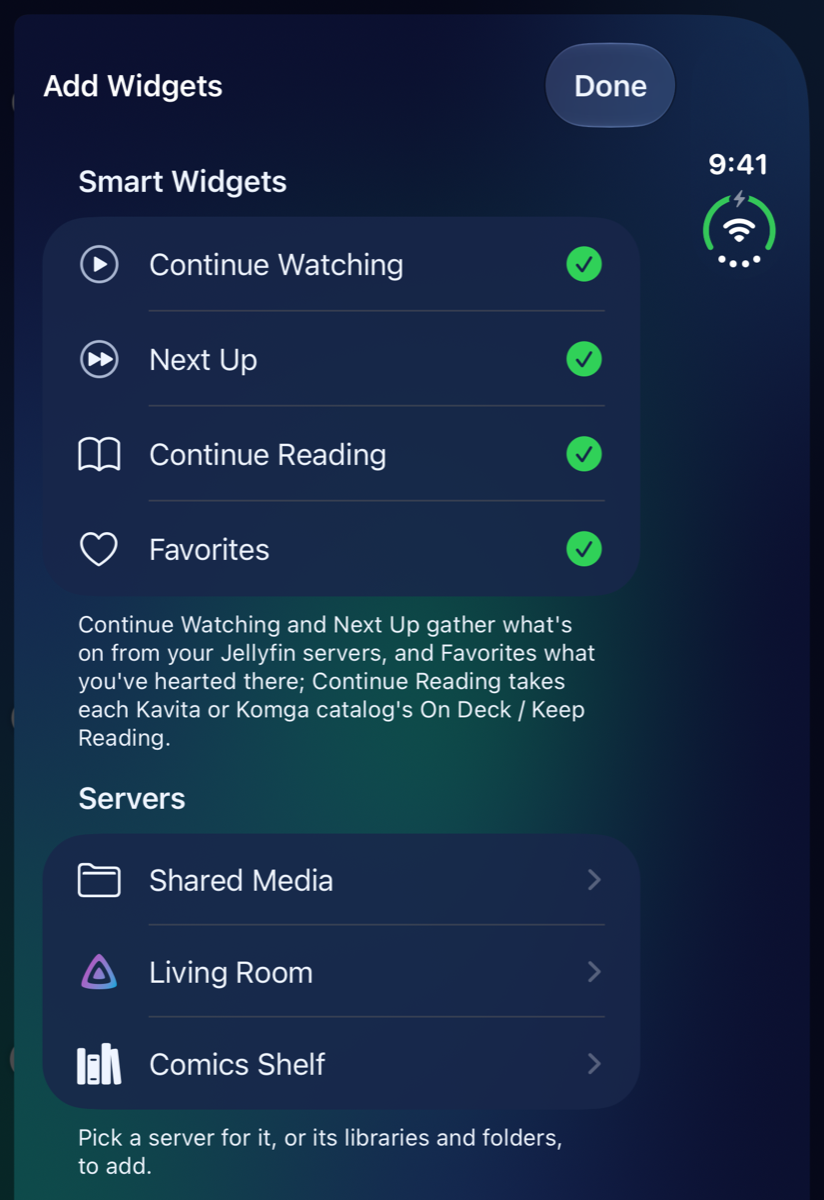
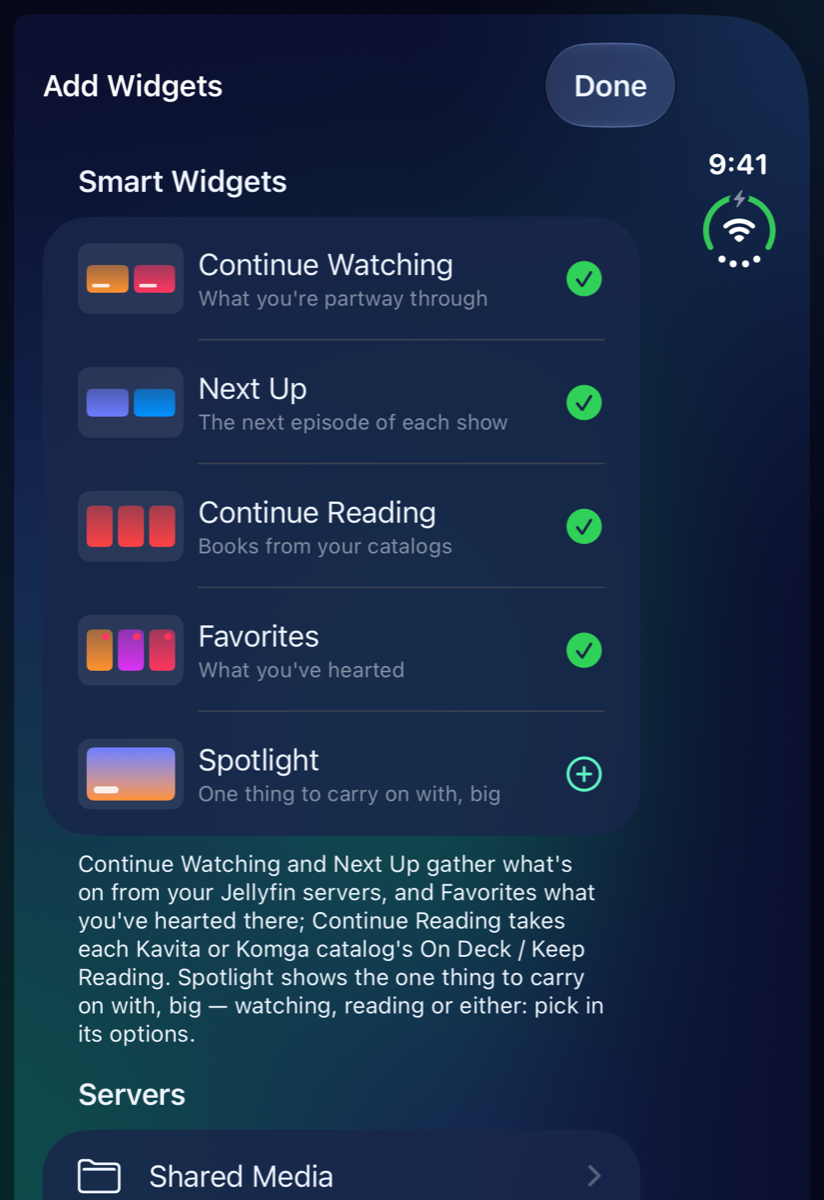
Publish the guide (from 125408f8)

diff --git a/whats-new.md b/whats-new.md
@@ -12,6 +12,26 @@ The highlights of each MK Plus update since public TestFlight testing began (ver
 
 ## November 2026
 
+### Add Widgets shows what each widget looks like
+
+_Version 1.387.0 · 17 November 2026_
+
+- Each smart widget in Add Widgets has a small picture of how it looks on Home.
+- On the open iPhone Duo on its side, Add Widgets opens beside the fold, with Home still in view.
+
+<details markdown="1">
+<summary>Everything in 1.387.0</summary>
+
+**New**
+
+- A small picture and a line for each smart widget in Add Widgets: Spotlight, Continue Watching, Next Up, Continue Reading and Favorites.
+
+**Changed**
+
+- On the open iPhone Duo on its side, Add Widgets is a panel right of the fold, so a widget you add shows on Home straight away.
+
+</details>
+
 ### Folders as big as libraries on the Duo
 
 _Version 1.382.0 · 17 November 2026_
